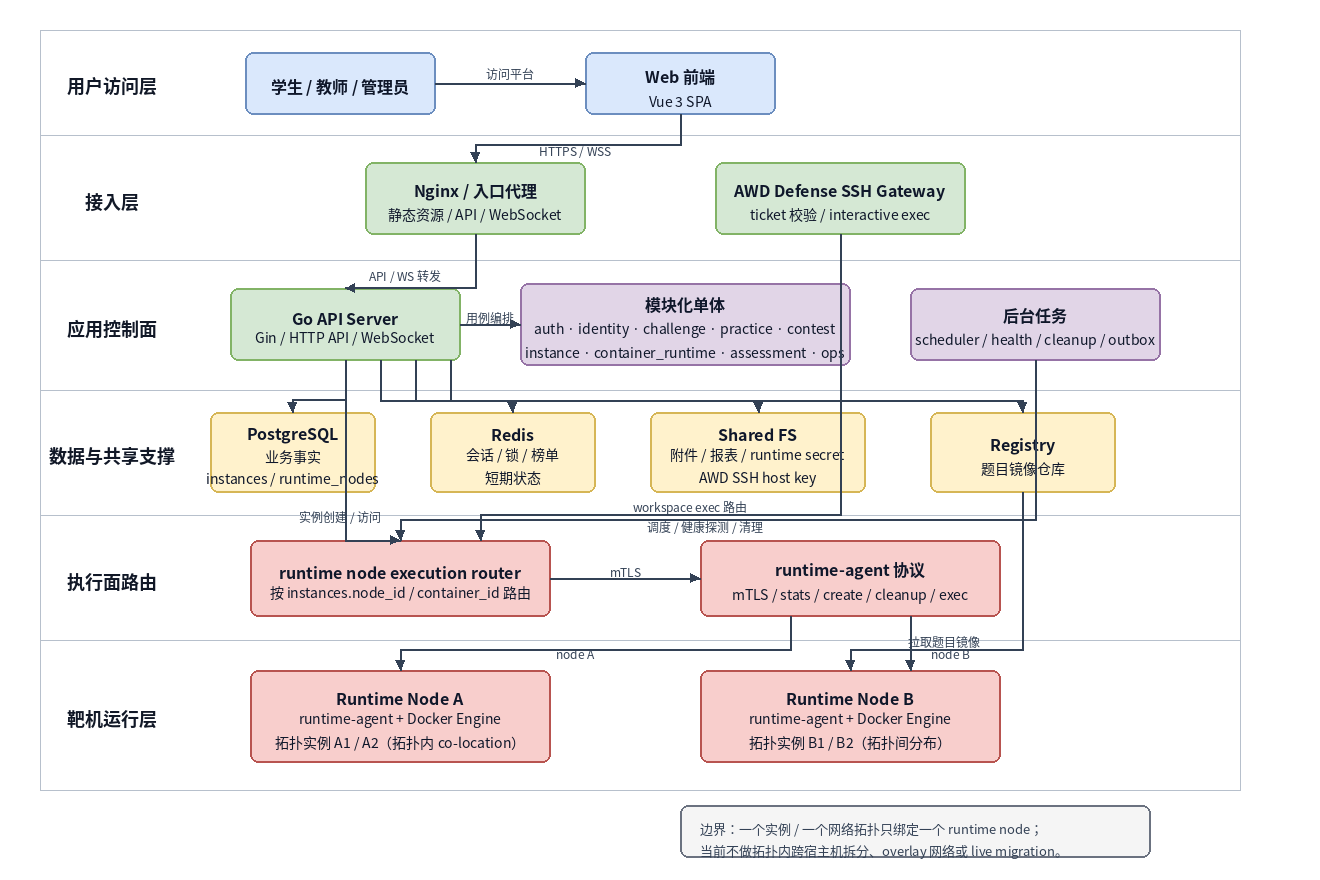
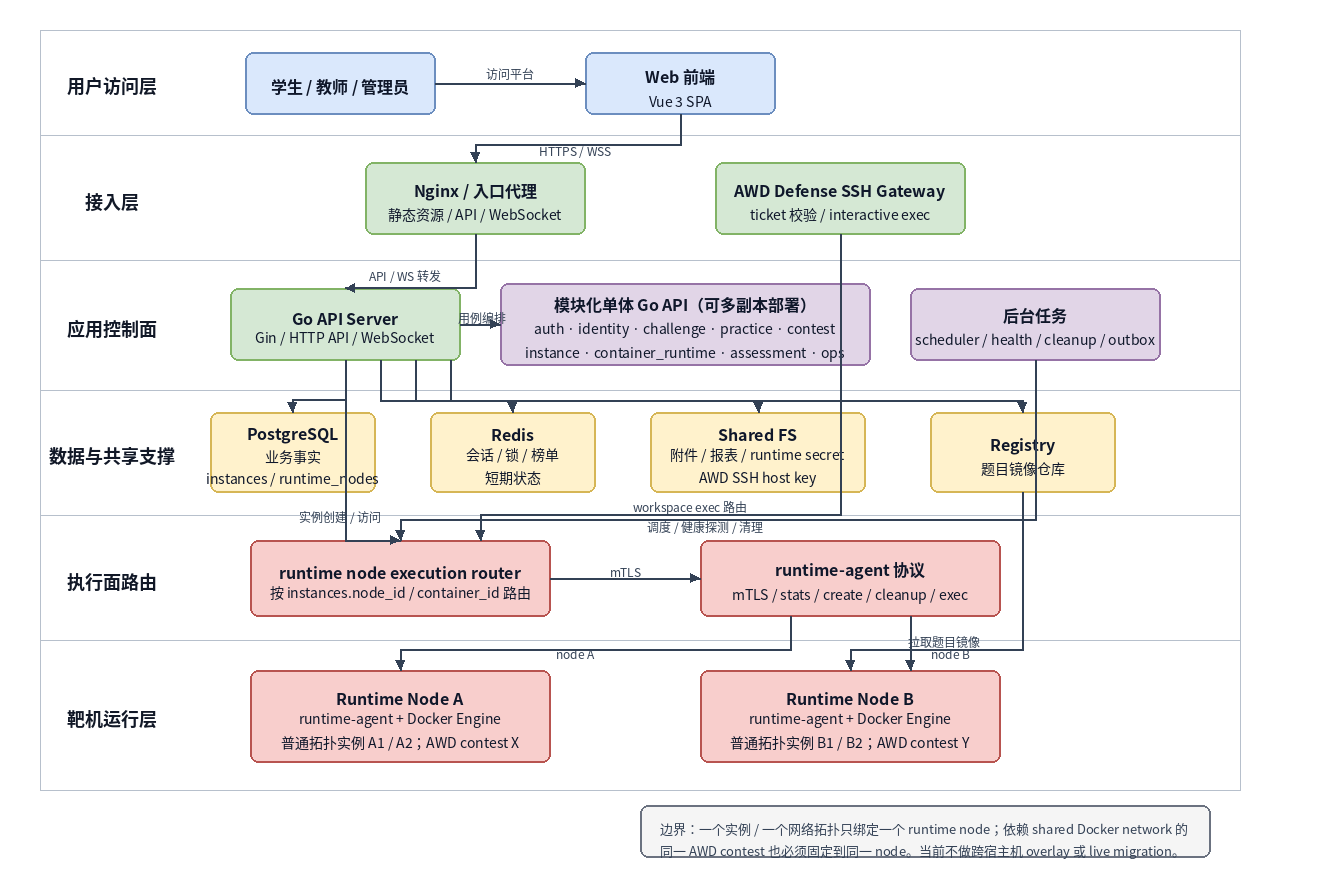
docs(architecture): 修正 AWD 多节点架构说明
明确模块化单体 Go API 可以多副本部署，避免 README 架构图误解。

收紧 AWD shared network 边界，说明同一 contest 不能随意跨 runtime node 分布。

diff --git a/docs/architecture/backend/03-container-architecture.md b/docs/architecture/backend/03-container-architecture.md
@@ -25,7 +25,7 @@
   - 负责：用多 `runtime_agent` 承载“多个拓扑实例分布到多个宿主机”的横向扩容模型；不同实例可以调度到不同 runtime node，但同一实例的 `runtime_details.containers[]` 不记录容器级 `node_id`，也不表达拓扑内部跨 node 放置
   - 负责：在 node 离线后按实例级别重建。`WireRuntimeNodeFailover` 会把离线 node 上未过期的 `creating / running` 实例清空旧 `node_id / container_id / network_id / runtime_details / access_url` 后放回 `pending`，由 scheduler 在健康 node 上重新创建整个拓扑，而不是把拓扑中的单个容器迁到其他 node
   - 不负责：在同一个 topology 内把不同节点容器拆到不同 Docker 宿主机；当前不提供 overlay / VXLAN / CNI、跨 node Docker network、跨宿主机 network alias、跨 node ACL 下发、跨 node 容器 IP 连通或会话迁移语义
-  - AWD 边界：`applyAWDStableNetworkToTopologyRequest()` 会把 AWD 入口网络命名为 `ctf-awd-contest-<contest_id>` 并标记 `shared=true`，但这是当前 runtime node 本地 Docker network 语义。同名 network 出现在不同 Docker 宿主机时不是同一个二层网络；如果某个 AWD 赛制要求同一 contest 的所有队伍服务处于同一个私有网络内，则调度策略必须把该 contest 的相关实例固定到同一个 runtime node。当前已落地事实只保证“单个 AWD service 实例及其 defense workspace companion 使用同一个 `instances.node_id` 创建”
+  - AWD 边界：`applyAWDStableNetworkToTopologyRequest()` 会把 AWD 入口网络命名为 `ctf-awd-contest-<contest_id>` 并标记 `shared=true`，但这是当前 runtime node 本地 Docker network 语义。同名 network 出现在不同 Docker 宿主机时不是同一个二层网络；如果 AWD 攻击链路依赖同一 contest 的 Docker shared network / service alias 互通，则该 contest 的所有队伍服务实例和对应 defense workspace companion 必须固定到同一个 runtime node。当前未实现跨 node overlay / 攻击代理来替代这条二层互通语义，因此不能把同一 contest 的 AWD 服务实例随意分散到多个 runtime node
 
 - `code/backend/internal/module/practice/application/commands/instance_start_service.go`、`instance_provisioning_scheduler.go`、`runtime_container_create.go`、`awd_desired_runtime_reconciler.go`
   - 负责：用两段式编排推进 `pending -> creating -> running`，完成作用域加锁、端口预留、容器创建、失败补偿与 `container.scheduler.*` 并发控制；普通实例继续使用 `container.default_ttl` 计算 `expires_at`，AWD 队伍服务实例则统一跟随 `contestdomain.ContestEffectiveEndTime(contest)`，也就是比赛 `end_time + paused_seconds`

diff --git a/README.md b/README.md
@@ -12,7 +12,7 @@
 
 ![CTF 平台总体架构](docs/architecture/backend/platform-overall-architecture.png)
 
-当前平台按“应用控制面 + runtime-agent 执行面”拆分：Go API 负责业务编排、鉴权、调度、实例状态和访问入口；runtime-agent 运行在靶机 Docker 宿主机上，负责容器、网络、ACL、文件写入、checker sandbox 和 interactive exec。多 runtime node 用于承载多个实例 / 拓扑的横向扩容；同一个网络拓扑实例仍绑定一个 runtime node，不做拓扑内跨宿主机容器拆分。
+当前平台按“应用控制面 + runtime-agent 执行面”拆分：模块化单体 Go API（可多副本部署）负责业务编排、鉴权、调度、实例状态和访问入口；runtime-agent 运行在靶机 Docker 宿主机上，负责容器、网络、ACL、文件写入、checker sandbox 和 interactive exec。多 runtime node 用于承载普通实例 / 独立拓扑的横向扩容；同一个网络拓扑实例仍绑定一个 runtime node。AWD 如果依赖同一 contest 的 Docker shared network 实现跨队攻击链路，则该 contest 的相关服务实例必须固定到同一个 runtime node，当前不做拓扑内或 AWD contest 内的跨宿主机网络互通。
 
 图表源文件见 `docs/architecture/backend/platform-overall-architecture.drawio`，运行时边界细节见 `docs/architecture/backend/03-container-architecture.md`。
 
